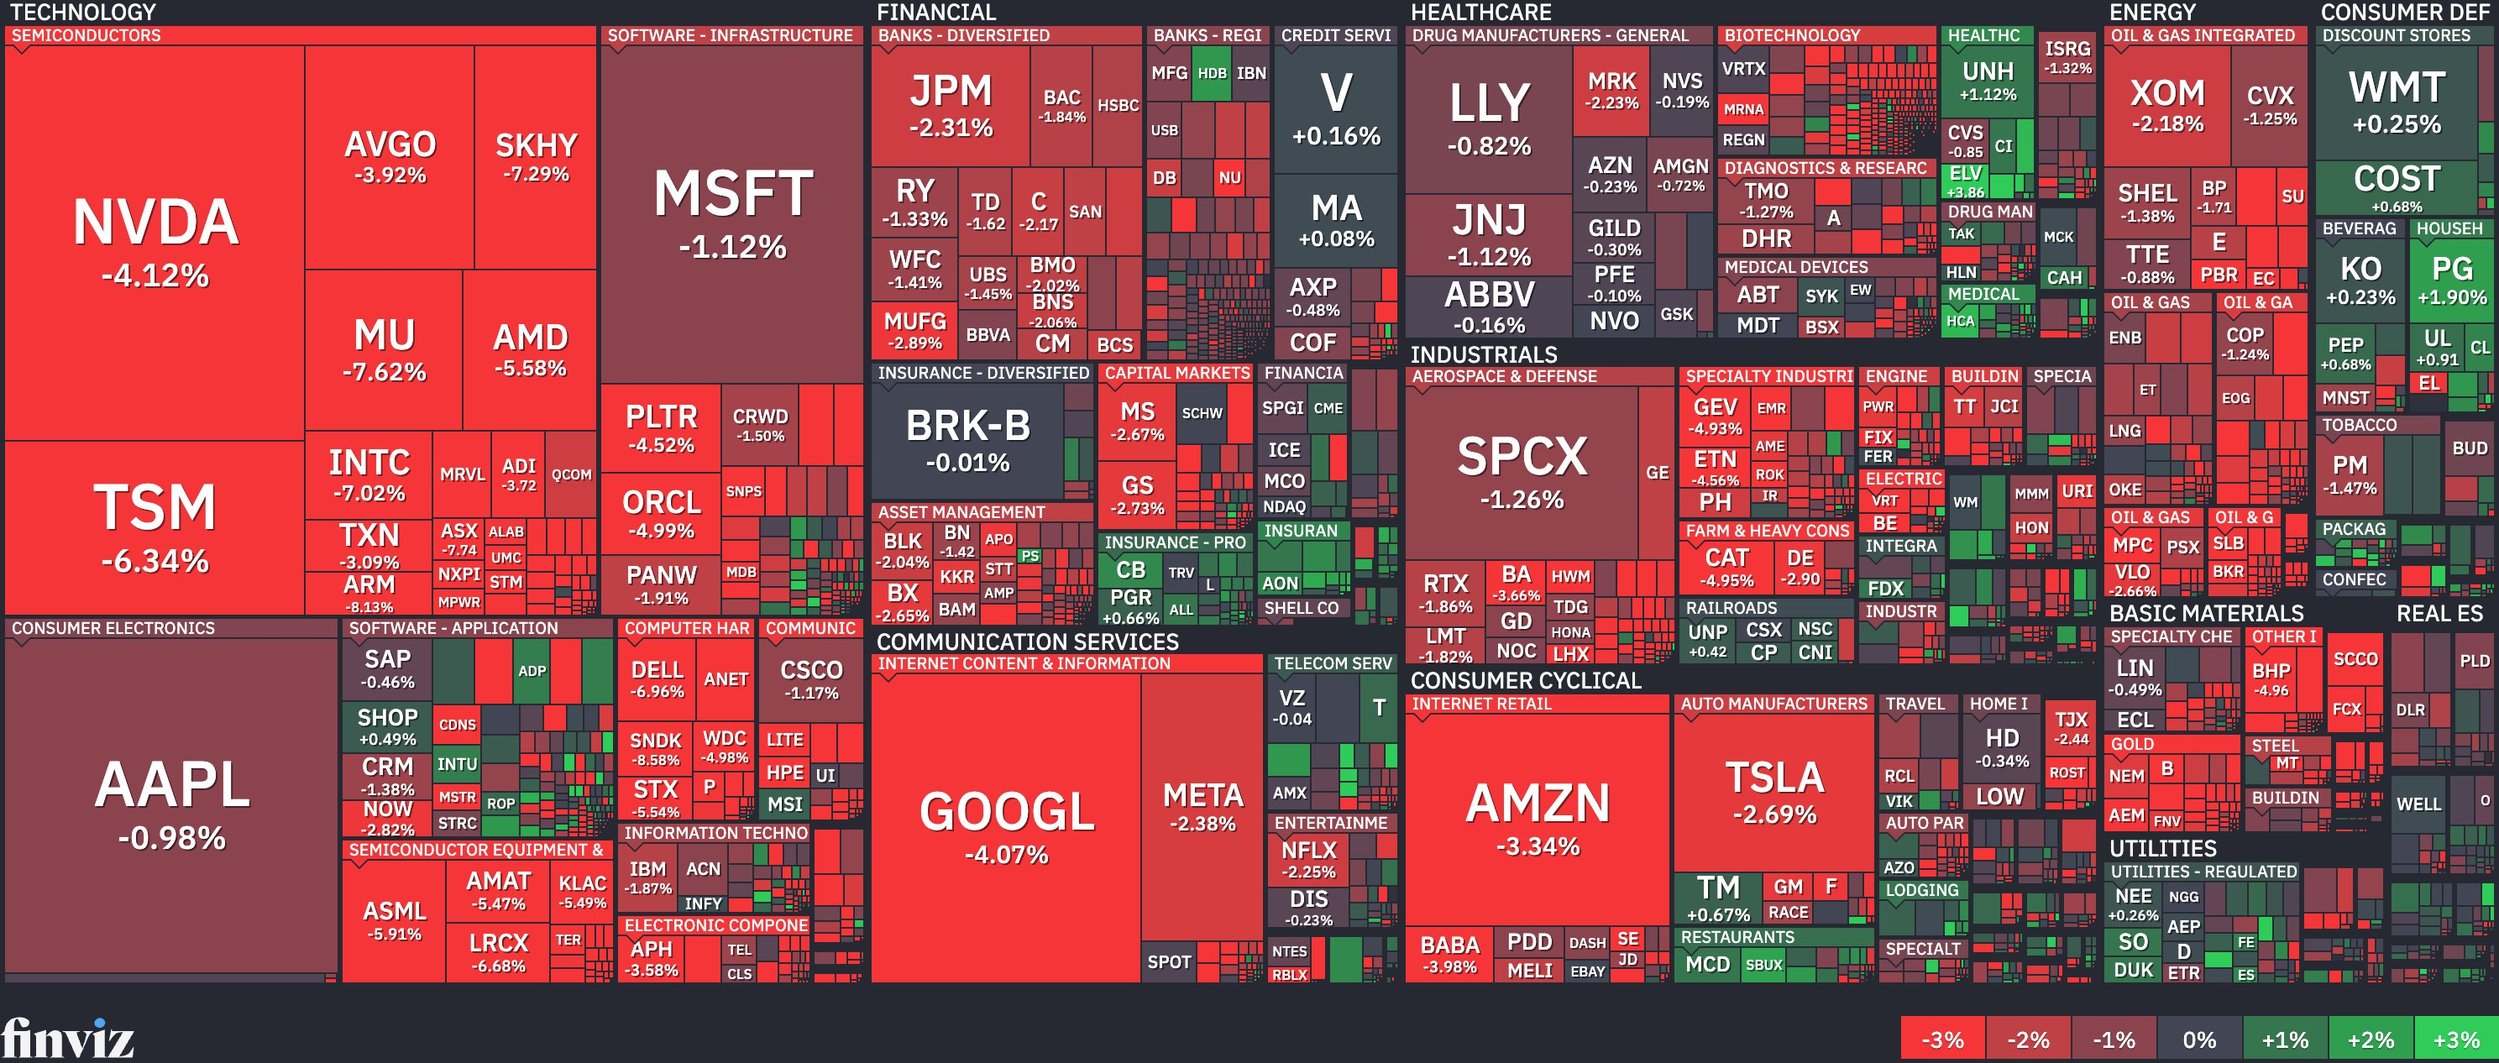
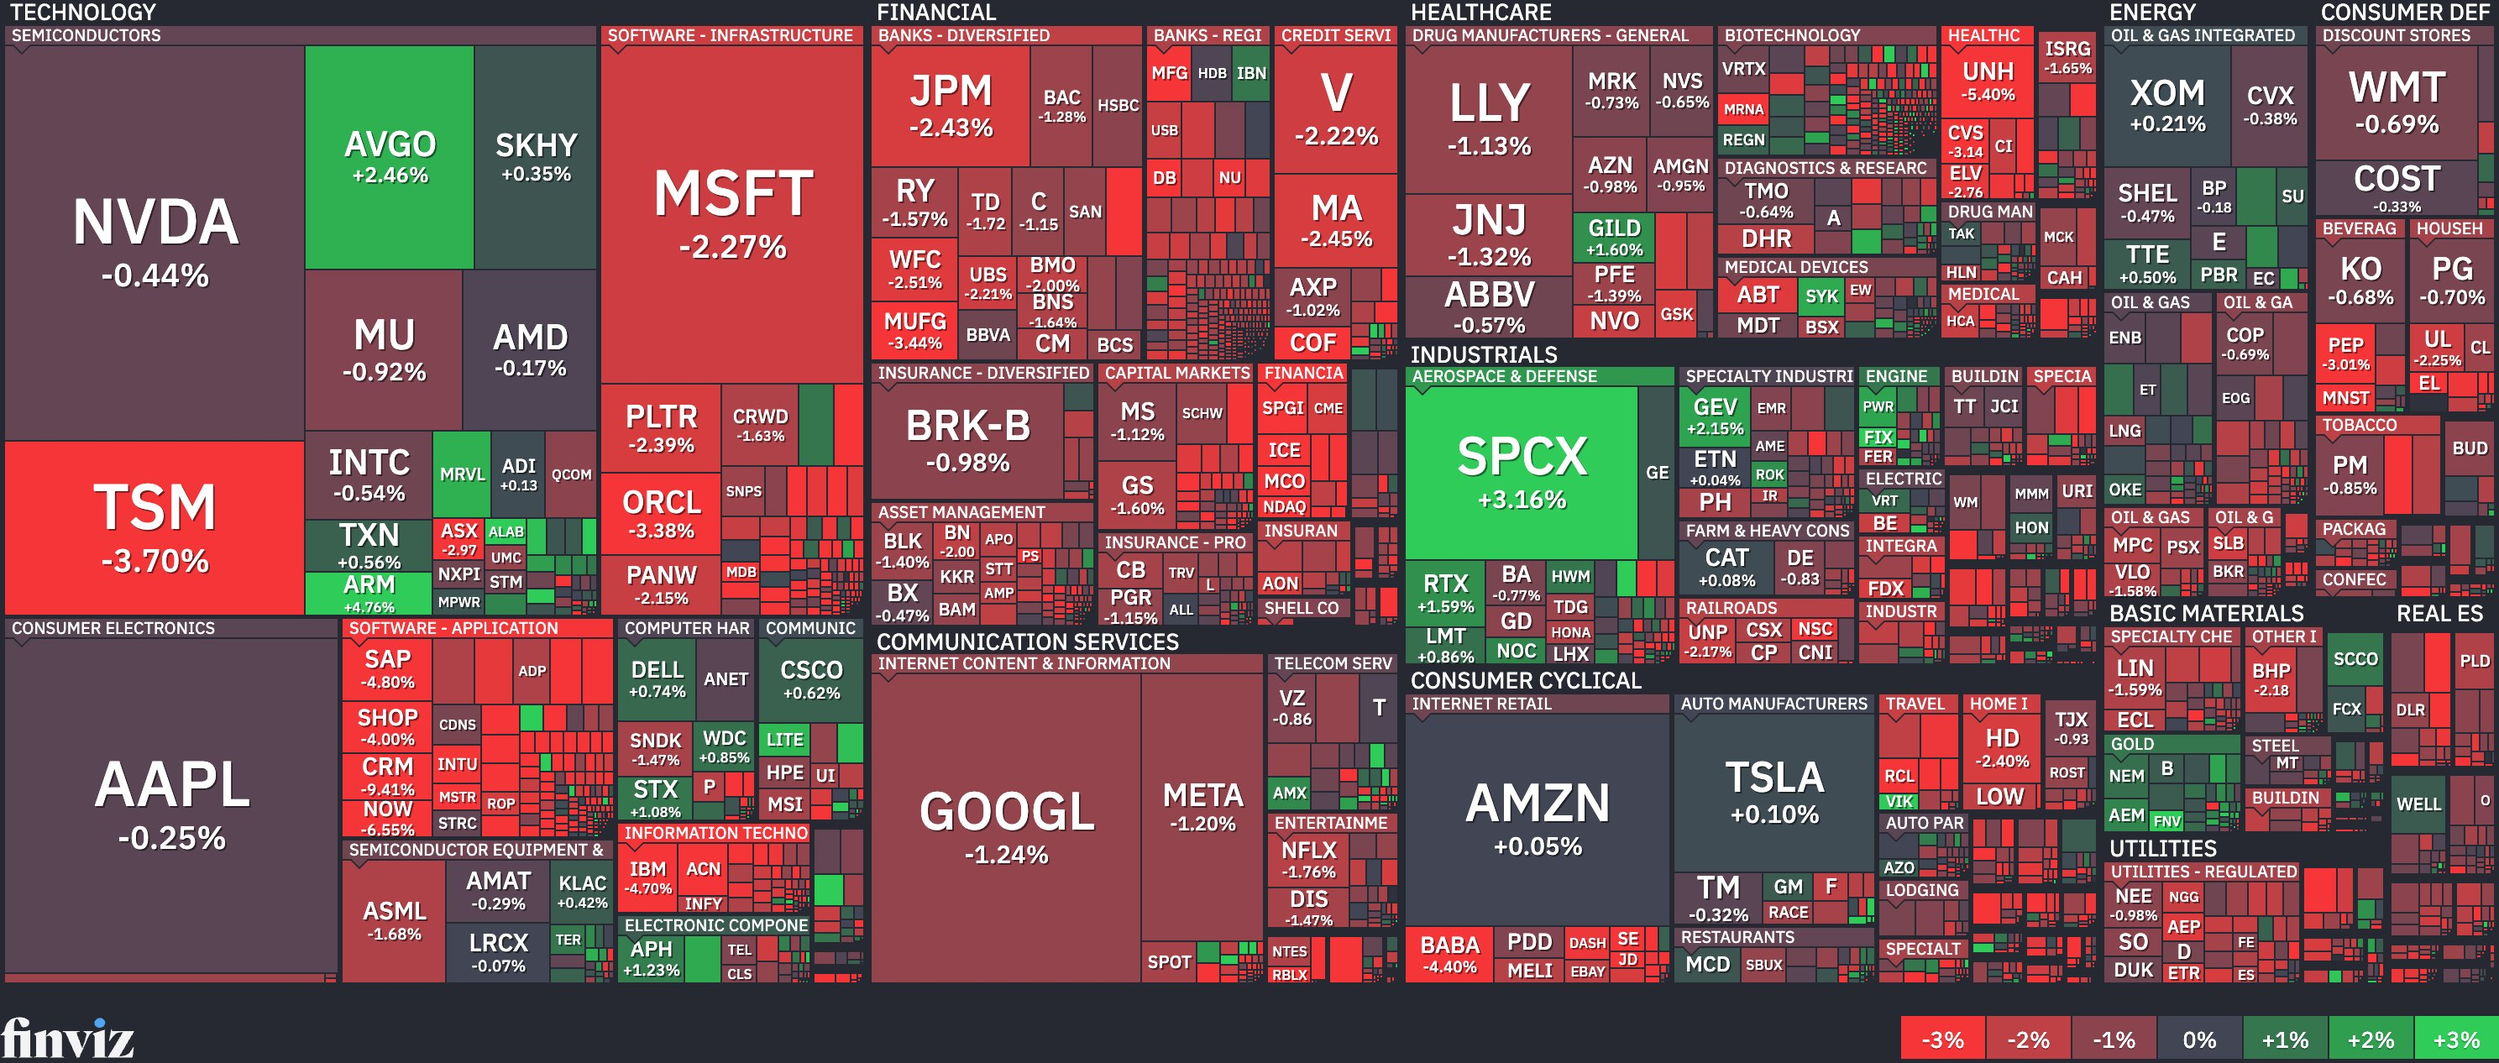
STOCK MAP 갱신 Tue NOV 17, 4:01 PM ET

diff --git a/index.html b/index.html
@@ -117,7 +117,7 @@ footer{margin-top:34px;font-size:12px;color:#7A867C;text-align:center;line-heigh
 <div class="hd"><div class="kicker">STRUCTURE &amp; BOTTLENECKS</div><h1>Report Vault</h1>
 <p>매크로·산업·기업 분석 기록을 모아 읽는 보고서 자료실.</p></div>
 <div class="board"><div class="bhd"><span class="bt">MARKET BOARD</span><span class="bu">11/18 06:00 KST 기준</span></div><div class="bgrid main"><div class="tile down"><div class="tl">DJIA</div><div class="tv">50,709.23</div><div class="tc">▼ −898.94<span class="tp">−1.74%</span></div><svg class="spk" viewBox="0 0 100 26" preserveAspectRatio="none" role="img" aria-label="최근 1개월 10-16→11-17 · 최저 50,761.92 · 최고 53,356.12 · -2.4%"><title>최근 1개월 10-16→11-17 · 최저 50,761.92 · 최고 53,356.12 · -2.4%</title><polygon points="0,26 0.0,13.5 4.5,13.8 9.1,9.3 13.6,6.2 18.2,6.1 22.7,11.7 27.3,10.4 31.8,10.3 36.4,9.5 40.9,10.6 45.5,15.4 50.0,13.6 54.5,15.3 59.1,2.0 63.6,17.5 68.2,19.6 72.7,10.2 77.3,11.5 81.8,9.4 86.4,11.0 90.9,10.6 95.5,16.8 100.0,24.0 100,26" fill="#C0442E" fill-opacity=".10"/><polyline points="0.0,13.5 4.5,13.8 9.1,9.3 13.6,6.2 18.2,6.1 22.7,11.7 27.3,10.4 31.8,10.3 36.4,9.5 40.9,10.6 45.5,15.4 50.0,13.6 54.5,15.3 59.1,2.0 63.6,17.5 68.2,19.6 72.7,10.2 77.3,11.5 81.8,9.4 86.4,11.0 90.9,10.6 95.5,16.8 100.0,24.0" fill="none" stroke="#C0442E" stroke-width="1.6" vector-effect="non-scaling-stroke" stroke-linejoin="round"/></svg><span class="ta">TradingView · 3:59 PM EST</span></div><div class="tile down"><div class="tl">S&amp;P 500</div><div class="tv">7,324.15</div><div class="tc">▼ −92.44<span class="tp">−1.25%</span></div><svg class="spk" viewBox="0 0 100 26" preserveAspectRatio="none" role="img" aria-label="최근 1개월 10-16→11-17 · 최저 7,340.90 · 최고 7,757.17 · -4.2%"><title>최근 1개월 10-16→11-17 · 최저 7,340.90 · 최고 7,757.17 · -4.2%</title><polygon points="0,26 0.0,7.2 4.5,5.5 9.1,4.4 13.6,2.0 18.2,7.0 22.7,9.1 27.3,6.2 31.8,3.8 36.4,2.7 40.9,3.9 45.5,11.4 50.0,13.4 54.5,11.9 59.1,5.6 63.6,23.3 68.2,22.1 72.7,13.0 77.3,14.5 81.8,9.3 86.4,10.7 90.9,12.3 95.5,20.0 100.0,24.0 100,26" fill="#C0442E" fill-opacity=".10"/><polyline points="0.0,7.2 4.5,5.5 9.1,4.4 13.6,2.0 18.2,7.0 22.7,9.1 27.3,6.2 31.8,3.8 36.4,2.7 40.9,3.9 45.5,11.4 50.0,13.4 54.5,11.9 59.1,5.6 63.6,23.3 68.2,22.1 72.7,13.0 77.3,14.5 81.8,9.3 86.4,10.7 90.9,12.3 95.5,20.0 100.0,24.0" fill="none" stroke="#C0442E" stroke-width="1.6" vector-effect="non-scaling-stroke" stroke-linejoin="round"/></svg><span class="ta">TradingView · 3:59 PM EST</span></div><div class="tile down"><div class="tl">NASDAQ</div><div class="tv">24,261.719</div><div class="tc">▼ −248.039<span class="tp">−1.01%</span></div><svg class="spk" viewBox="0 0 100 26" preserveAspectRatio="none" role="img" aria-label="최근 1개월 10-16→11-17 · 최저 24,315.00 · 최고 26,702.86 · -6.9%"><title>최근 1개월 10-16→11-17 · 최저 24,315.00 · 최고 26,702.86 · -6.9%</title><polygon points="0,26 0.0,7.2 4.5,4.5 9.1,4.6 13.6,2.0 18.2,8.4 22.7,8.9 27.3,6.9 31.8,4.1 36.4,3.4 40.9,6.8 45.5,13.7 50.0,16.2 54.5,14.3 59.1,10.9 63.6,24.0 68.2,21.6 72.7,15.4 77.3,17.1 81.8,13.4 86.4,14.3 90.9,16.4 95.5,22.2 100.0,23.9 100,26" fill="#C0442E" fill-opacity=".10"/><polyline points="0.0,7.2 4.5,4.5 9.1,4.6 13.6,2.0 18.2,8.4 22.7,8.9 27.3,6.9 31.8,4.1 36.4,3.4 40.9,6.8 45.5,13.7 50.0,16.2 54.5,14.3 59.1,10.9 63.6,24.0 68.2,21.6 72.7,15.4 77.3,17.1 81.8,13.4 86.4,14.3 90.9,16.4 95.5,22.2 100.0,23.9" fill="none" stroke="#C0442E" stroke-width="1.6" vector-effect="non-scaling-stroke" stroke-linejoin="round"/></svg><span class="ta">TradingView · 3:59 PM EST</span></div><div class="tile down"><div class="tl">RUSSELL 2000</div><div class="tv">2,704.81</div><div class="tc">▼ −38.13<span class="tp">−1.39%</span></div><svg class="spk" viewBox="0 0 100 26" preserveAspectRatio="none" role="img" aria-label="최근 1개월 10-16→11-17 · 최저 2,705.80 · 최고 2,859.22 · -0.6%"><title>최근 1개월 10-16→11-17 · 최저 2,705.80 · 최고 2,859.22 · -0.6%</title><polygon points="0,26 0.0,21.8 4.5,20.8 9.1,14.3 13.6,13.2 18.2,12.8 22.7,13.9 27.3,12.4 31.8,7.8 36.4,6.1 40.9,2.0 45.5,8.8 50.0,9.6 54.5,8.7 59.1,2.3 63.6,20.5 68.2,17.1 72.7,4.6 77.3,7.4 81.8,3.9 86.4,10.6 90.9,11.9 95.5,18.7 100.0,24.0 100,26" fill="#C0442E" fill-opacity=".10"/><polyline points="0.0,21.8 4.5,20.8 9.1,14.3 13.6,13.2 18.2,12.8 22.7,13.9 27.3,12.4 31.8,7.8 36.4,6.1 40.9,2.0 45.5,8.8 50.0,9.6 54.5,8.7 59.1,2.3 63.6,20.5 68.2,17.1 72.7,4.6 77.3,7.4 81.8,3.9 86.4,10.6 90.9,11.9 95.5,18.7 100.0,24.0" fill="none" stroke="#C0442E" stroke-width="1.6" vector-effect="non-scaling-stroke" stroke-linejoin="round"/></svg><span class="ta">TradingView · 3:59 PM EST</span></div><div class="tile down"><div class="tl">US 10-YR</div><div class="tv">5.107%</div><div class="tc">▼ −0.022</div><svg class="spk" viewBox="0 0 100 26" preserveAspectRatio="none" role="img" aria-label="최근 1개월 10-16→11-17 · 최저 4.84 · 최고 5.15 · +0.1%"><title>최근 1개월 10-16→11-17 · 최저 4.84 · 최고 5.15 · +0.1%</title><polygon points="0,26 0.0,5.9 4.5,3.2 9.1,4.6 13.6,2.6 18.2,15.9 22.7,13.5 27.3,13.7 31.8,13.2 36.4,9.6 40.9,13.5 45.5,17.6 50.0,20.0 54.5,16.0 59.1,20.0 63.6,24.0 68.2,22.5 72.7,22.1 77.3,13.9 81.8,12.8 86.4,5.5 90.9,2.0 95.5,4.3 100.0,5.5 100,26" fill="#1F8A5B" fill-opacity=".10"/><polyline points="0.0,5.9 4.5,3.2 9.1,4.6 13.6,2.6 18.2,15.9 22.7,13.5 27.3,13.7 31.8,13.2 36.4,9.6 40.9,13.5 45.5,17.6 50.0,20.0 54.5,16.0 59.1,20.0 63.6,24.0 68.2,22.5 72.7,22.1 77.3,13.9 81.8,12.8 86.4,5.5 90.9,2.0 95.5,4.3 100.0,5.5" fill="none" stroke="#1F8A5B" stroke-width="1.6" vector-effect="non-scaling-stroke" stroke-linejoin="round"/></svg><span class="ta">TradingView · 3:58 PM EST</span></div><div class="tile down"><div class="tl">US 2-YR</div><div class="tv">4.793%</div><div class="tc">▼ −0.038</div><svg class="spk" viewBox="0 0 100 26" preserveAspectRatio="none" role="img" aria-label="최근 1개월 10-16→11-13 · 최저 4.46 · 최고 4.88 · +3.0%"><title>최근 1개월 10-16→11-13 · 최저 4.46 · 최고 4.88 · +3.0%</title><polygon points="0,26 0.0,9.3 5.3,7.8 10.5,6.7 15.8,5.7 21.1,14.0 26.3,12.0 31.6,12.5 36.8,11.4 42.1,13.0 47.4,16.1 52.6,18.8 57.9,17.2 63.2,16.1 68.4,17.7 73.7,24.0 78.9,21.4 84.2,18.8 89.5,9.9 94.7,3.0 100.0,2.0 100,26" fill="#1F8A5B" fill-opacity=".10"/><polyline points="0.0,9.3 5.3,7.8 10.5,6.7 15.8,5.7 21.1,14.0 26.3,12.0 31.6,12.5 36.8,11.4 42.1,13.0 47.4,16.1 52.6,18.8 57.9,17.2 63.2,16.1 68.4,17.7 73.7,24.0 78.9,21.4 84.2,18.8 89.5,9.9 94.7,3.0 100.0,2.0" fill="none" stroke="#1F8A5B" stroke-width="1.6" vector-effect="non-scaling-stroke" stroke-linejoin="round"/></svg><span class="ta">TradingView · 3:59 PM EST</span></div><div class="tile down"><div class="tl">GOLD</div><div class="tv">3,851.20</div><div class="tc">▼ −1.80<span class="tp">−0.05%</span></div><svg class="spk" viewBox="0 0 100 26" preserveAspectRatio="none" role="img" aria-label="최근 1개월 10-16→11-17 · 최저 3,849.20 · 최고 4,181.10 · -7.9%"><title>최근 1개월 10-16→11-17 · 최저 3,849.20 · 최고 4,181.10 · -7.9%</title><polygon points="0,26 0.0,2.0 4.5,3.4 9.1,4.6 13.6,4.1 18.2,10.0 22.7,13.5 27.3,11.5 31.8,9.1 36.4,10.6 40.9,11.9 45.5,20.7 50.0,16.0 54.5,18.0 59.1,9.2 63.6,6.5 68.2,9.0 72.7,6.4 77.3,12.0 81.8,14.0 86.4,21.6 90.9,21.5 95.5,23.7 100.0,24.0 100,26" fill="#C0442E" fill-opacity=".10"/><polyline points="0.0,2.0 4.5,3.4 9.1,4.6 13.6,4.1 18.2,10.0 22.7,13.5 27.3,11.5 31.8,9.1 36.4,10.6 40.9,11.9 45.5,20.7 50.0,16.0 54.5,18.0 59.1,9.2 63.6,6.5 68.2,9.0 72.7,6.4 77.3,12.0 81.8,14.0 86.4,21.6 90.9,21.5 95.5,23.7 100.0,24.0" fill="none" stroke="#C0442E" stroke-width="1.6" vector-effect="non-scaling-stroke" stroke-linejoin="round"/></svg><span class="ta">TradingView · 3:59 PM EST</span></div><div class="tile down"><div class="tl">OIL</div><div class="tv">85.65</div><div class="tc">▼ −0.07<span class="tp">−0.08%</span></div><svg class="spk" viewBox="0 0 100 26" preserveAspectRatio="none" role="img" aria-label="최근 1개월 10-16→11-17 · 최저 85.62 · 최고 104.12 · -15.6%"><title>최근 1개월 10-16→11-17 · 최저 85.62 · 최고 104.12 · -15.6%</title><polygon points="0,26 0.0,5.2 4.5,2.5 9.1,4.8 13.6,10.3 18.2,7.5 22.7,3.0 27.3,4.8 31.8,7.0 36.4,3.6 40.9,4.5 45.5,2.0 50.0,11.1 54.5,11.5 59.1,21.0 63.6,18.2 68.2,17.8 72.7,22.5 77.3,23.5 81.8,22.9 86.4,20.3 90.9,20.5 95.5,23.9 100.0,24.0 100,26" fill="#C0442E" fill-opacity=".10"/><polyline points="0.0,5.2 4.5,2.5 9.1,4.8 13.6,10.3 18.2,7.5 22.7,3.0 27.3,4.8 31.8,7.0 36.4,3.6 40.9,4.5 45.5,2.0 50.0,11.1 54.5,11.5 59.1,21.0 63.6,18.2 68.2,17.8 72.7,22.5 77.3,23.5 81.8,22.9 86.4,20.3 90.9,20.5 95.5,23.9 100.0,24.0" fill="none" stroke="#C0442E" stroke-width="1.6" vector-effect="non-scaling-stroke" stroke-linejoin="round"/></svg><span class="ta">TradingView · 3:59 PM EST</span></div></div><div class="bgrid risk"><div class="tile down"><div class="tl">F&amp;G</div><div class="tv">25</div><div class="tc">▼ −6<span class="tg fg-ef">극단적 공포</span></div><svg class="spk" viewBox="0 0 100 26" preserveAspectRatio="none" role="img" aria-label="최근 1개월 10-16→11-17 · 최저 16.69 · 최고 40.34 · +35.7%"><title>최근 1개월 10-16→11-17 · 최저 16.69 · 최고 40.34 · +35.7%</title><polygon points="0,26 0.0,22.6 4.5,21.4 9.1,12.8 13.6,11.4 18.2,20.9 22.7,24.0 27.3,11.8 31.8,8.9 36.4,7.5 40.9,10.9 45.5,15.0 50.0,21.5 54.5,17.6 59.1,7.7 63.6,20.9 68.2,16.9 72.7,10.2 77.3,4.8 81.8,6.1 86.4,2.0 90.9,4.8 95.5,10.6 100.0,16.5 100,26" fill="#1F8A5B" fill-opacity=".10"/><polyline points="0.0,22.6 4.5,21.4 9.1,12.8 13.6,11.4 18.2,20.9 22.7,24.0 27.3,11.8 31.8,8.9 36.4,7.5 40.9,10.9 45.5,15.0 50.0,21.5 54.5,17.6 59.1,7.7 63.6,20.9 68.2,16.9 72.7,10.2 77.3,4.8 81.8,6.1 86.4,2.0 90.9,4.8 95.5,10.6 100.0,16.5" fill="none" stroke="#1F8A5B" stroke-width="1.6" vector-effect="non-scaling-stroke" stroke-linejoin="round"/></svg><span class="ta">CNN · 11/17</span></div><div class="tile up"><div class="tl">VIX</div><div class="tv">25.73</div><div class="tc">▲ +2.82<span class="tp">+12.31%</span></div><svg class="spk" viewBox="0 0 100 26" preserveAspectRatio="none" role="img" aria-label="최근 1개월 10-16→11-17 · 최저 16.61 · 최고 28.18 · +28.6%"><title>최근 1개월 10-16→11-17 · 최저 16.61 · 최고 28.18 · +28.6%</title><polygon points="0,26 0.0,17.6 4.5,20.5 9.1,22.7 13.6,23.9 18.2,19.4 22.7,18.6 27.3,20.6 31.8,22.3 36.4,23.4 40.9,22.9 45.5,18.7 50.0,15.4 54.5,16.0 59.1,24.0 63.6,2.0 68.2,6.8 72.7,17.7 77.3,18.6 81.8,22.3 86.4,20.0 90.9,18.9 95.5,12.0 100.0,6.7 100,26" fill="#1F8A5B" fill-opacity=".10"/><polyline points="0.0,17.6 4.5,20.5 9.1,22.7 13.6,23.9 18.2,19.4 22.7,18.6 27.3,20.6 31.8,22.3 36.4,23.4 40.9,22.9 45.5,18.7 50.0,15.4 54.5,16.0 59.1,24.0 63.6,2.0 68.2,6.8 72.7,17.7 77.3,18.6 81.8,22.3 86.4,20.0 90.9,18.9 95.5,12.0 100.0,6.7" fill="none" stroke="#1F8A5B" stroke-width="1.6" vector-effect="non-scaling-stroke" stroke-linejoin="round"/></svg><span class="ta">TradingView · 3:59 PM EST</span></div><div class="tile down"><div class="tl">BITCOIN</div><div class="tv">63,883</div><div class="tc">▼ −939<span class="tp">−1.45%</span></div><svg class="spk" viewBox="0 0 100 26" preserveAspectRatio="none" role="img" aria-label="최근 1개월 10-16→11-17 · 최저 63,910.10 · 최고 84,011.97 · -21.6%"><title>최근 1개월 10-16→11-17 · 최저 63,910.10 · 최고 84,011.97 · -21.6%</title><polygon points="0,26 0.0,4.7 3.1,4.9 6.2,4.2 9.4,4.4 12.5,3.2 15.6,2.0 18.8,5.0 21.9,5.2 25.0,5.5 28.1,6.4 31.2,6.4 34.4,5.5 37.5,5.0 40.6,8.8 43.8,9.5 46.9,9.2 50.0,8.3 53.1,10.0 56.2,9.3 59.4,5.9 62.5,10.8 65.6,11.0 68.8,11.0 71.9,12.3 75.0,11.6 78.1,13.3 81.2,13.0 84.4,15.9 87.5,19.3 90.6,23.8 93.8,22.5 96.9,23.0 100.0,24.0 100,26" fill="#C0442E" fill-opacity=".10"/><polyline points="0.0,4.7 3.1,4.9 6.2,4.2 9.4,4.4 12.5,3.2 15.6,2.0 18.8,5.0 21.9,5.2 25.0,5.5 28.1,6.4 31.2,6.4 34.4,5.5 37.5,5.0 40.6,8.8 43.8,9.5 46.9,9.2 50.0,8.3 53.1,10.0 56.2,9.3 59.4,5.9 62.5,10.8 65.6,11.0 68.8,11.0 71.9,12.3 75.0,11.6 78.1,13.3 81.2,13.0 84.4,15.9 87.5,19.3 90.6,23.8 93.8,22.5 96.9,23.0 100.0,24.0" fill="none" stroke="#C0442E" stroke-width="1.6" vector-effect="non-scaling-stroke" stroke-linejoin="round"/></svg><span class="ta">TradingView · 3:59 PM EST</span></div><div class="tile down"><div class="tl">USD/KRW</div><div class="tv">1,334.73</div><div class="tc">▼ −0.61<span class="tp">−0.05%</span></div><svg class="spk" viewBox="0 0 100 26" preserveAspectRatio="none" role="img" aria-label="최근 1개월 10-16→11-17 · 최저 1,321.76 · 최고 1,362.70 · -0.4%"><title>최근 1개월 10-16→11-17 · 최저 1,321.76 · 최고 1,362.70 · -0.4%</title><polygon points="0,26 0.0,13.7 4.5,17.7 9.1,19.6 13.6,22.8 18.2,21.9 22.7,21.7 27.3,24.0 31.8,22.4 36.4,21.3 40.9,14.0 45.5,15.3 50.0,22.0 54.5,11.6 59.1,12.6 63.6,14.2 68.2,5.4 72.7,2.0 77.3,12.1 81.8,13.2 86.4,16.2 90.9,17.5 95.5,17.8 100.0,16.8 100,26" fill="#C0442E" fill-opacity=".10"/><polyline points="0.0,13.7 4.5,17.7 9.1,19.6 13.6,22.8 18.2,21.9 22.7,21.7 27.3,24.0 31.8,22.4 36.4,21.3 40.9,14.0 45.5,15.3 50.0,22.0 54.5,11.6 59.1,12.6 63.6,14.2 68.2,5.4 72.7,2.0 77.3,12.1 81.8,13.2 86.4,16.2 90.9,17.5 95.5,17.8 100.0,16.8" fill="none" stroke="#C0442E" stroke-width="1.6" vector-effect="non-scaling-stroke" stroke-linejoin="round"/></svg><span class="ta">TradingView · 3:59 PM EST</span></div><div class="tile down"><div class="tl">DOLLAR INDEX</div><div class="tv">103.50</div><div class="tc">▼ −0.08<span class="tp">−0.08%</span></div><svg class="spk" viewBox="0 0 100 26" preserveAspectRatio="none" role="img" aria-label="최근 1개월 10-16→11-17 · 최저 101.51 · 최고 103.55 · +1.6%"><title>최근 1개월 10-16→11-17 · 최저 101.51 · 최고 103.55 · +1.6%</title><polygon points="0,26 0.0,20.4 4.5,18.9 9.1,21.6 13.6,21.1 18.2,22.9 22.7,20.8 27.3,19.1 31.8,15.3 36.4,16.7 40.9,18.3 45.5,20.0 50.0,21.4 54.5,20.1 59.1,24.0 63.6,23.6 68.2,15.5 72.7,22.5 77.3,16.2 81.8,8.9 86.4,6.1 90.9,3.5 95.5,2.0 100.0,2.6 100,26" fill="#1F8A5B" fill-opacity=".10"/><polyline points="0.0,20.4 4.5,18.9 9.1,21.6 13.6,21.1 18.2,22.9 22.7,20.8 27.3,19.1 31.8,15.3 36.4,16.7 40.9,18.3 45.5,20.0 50.0,21.4 54.5,20.1 59.1,24.0 63.6,23.6 68.2,15.5 72.7,22.5 77.3,16.2 81.8,8.9 86.4,6.1 90.9,3.5 95.5,2.0 100.0,2.6" fill="none" stroke="#1F8A5B" stroke-width="1.6" vector-effect="non-scaling-stroke" stroke-linejoin="round"/></svg><span class="ta">TradingView · 3:59 PM EST</span></div><div class="tile up"><div class="tl">RPONTSYD</div><div class="tv">$0.102B</div><div class="tc">▲ +0.100</div><svg class="spk" viewBox="0 0 100 26" preserveAspectRatio="none" role="img" aria-label="최근 1개월 10-16→11-17 · 최저 0.00 · 최고 0.10"><title>최근 1개월 10-16→11-17 · 최저 0.00 · 최고 0.10</title><polygon points="0,26 0.0,24.0 4.8,21.6 9.5,24.0 14.3,24.0 19.0,23.8 23.8,24.0 28.6,23.6 33.3,23.8 38.1,23.6 42.9,21.6 47.6,24.0 52.4,23.6 57.1,24.0 61.9,24.0 66.7,24.0 71.4,24.0 76.2,23.4 81.0,23.6 85.7,23.8 90.5,24.0 95.2,23.6 100.0,2.0 100,26" fill="#1F8A5B" fill-opacity=".10"/><polyline points="0.0,24.0 4.8,21.6 9.5,24.0 14.3,24.0 19.0,23.8 23.8,24.0 28.6,23.6 33.3,23.8 38.1,23.6 42.9,21.6 47.6,24.0 52.4,23.6 57.1,24.0 61.9,24.0 66.7,24.0 71.4,24.0 76.2,23.4 81.0,23.6 85.7,23.8 90.5,24.0 95.2,23.6 100.0,2.0" fill="none" stroke="#1F8A5B" stroke-width="1.6" vector-effect="non-scaling-stroke" stroke-linejoin="round"/></svg><span class="ta">FRED · 11/17</span></div></div></div>
-<div class="smap"><div class="bhd"><span class="bt">STOCK MAP</span><span class="bu">finviz · Mon NOV 16, 6:57 PM ET 기준</span></div><a href="https://finviz.com/map?t=sec_all" target="_blank" rel="noopener noreferrer"><img src="stockmap/stock_map.jpg?v=1794873476" alt="S&amp;P 섹터 지도(finviz)" loading="lazy"></a></div>
+<div class="smap"><div class="bhd"><span class="bt">STOCK MAP</span><span class="bu">finviz · Tue NOV 17, 4:01 PM ET 기준</span></div><a href="https://finviz.com/map?t=sec_all" target="_blank" rel="noopener noreferrer"><img src="stockmap/stock_map.jpg?v=1794949277" alt="S&amp;P 섹터 지도(finviz)" loading="lazy"></a></div>
 <div class="launch"><div class="bhd"><span class="bt">DASHBOARDS</span></div><div class="lgrid"><a class="lbtn" href="https://gaemi-street-journal.github.io/secz-star-map/" target="_blank" rel="noopener noreferrer"><span class="li">✦</span><span class="lt"><b>SECZ 경쟁·협업 별 지도</b><small>시청자 공개판 · 생애주기 9단계 · 새 창</small></span><span class="la">→</span></a><a class="lbtn" href="reports/2026-11-14_iren-infrastructure-globe.html"><span class="li">◎</span><span class="lt"><b>IREN 데이터센터 지구본</b><small>사이트·정치 규제 반영 · 시간 탭 · 최신 11/14</small></span><span class="la">→</span></a><a class="lbtn" href="reports/iren-infrastructure.html"><span class="li">▦</span><span class="lt"><b>IREN 인프라 대시보드</b><small>부지 × 단계 색 칸 · 매일 원장에서 생성 · 고정 주소</small></span><span class="la">→</span></a><a class="lbtn" href="reports/iren-financials.html"><span class="li">▤</span><span class="lt"><b>IREN 재무 대시보드</b><small>분기 공시판 · FY26 확정 · FY27 전망 · 자금조달</small></span><span class="la">→</span></a><a class="lbtn" href="reports/2026-10-12_ai-money-flow-map.html"><span class="li">≈</span><span class="lt"><b>AI 돈의 흐름 지도</b><small>v0.3.1 · 광고주 노드 · 5층 접기 · 자금 원장 · 회수 게이지 2.0</small></span><span class="la">→</span></a><a class="lbtn" href="reports/2026-11-17_daily-brief.html"><span class="li">▤</span><span class="lt"><b>Daily-briefing</b><small>Skill-Daily 통합 보고서 · 최신 11/17</small></span><span class="la">→</span></a></div></div>
 <div class="layout">
 <aside id="nav"><button class="nav all active" data-kind="all"><span class="nm">전체</span><span class="ct">1387</span></button>
